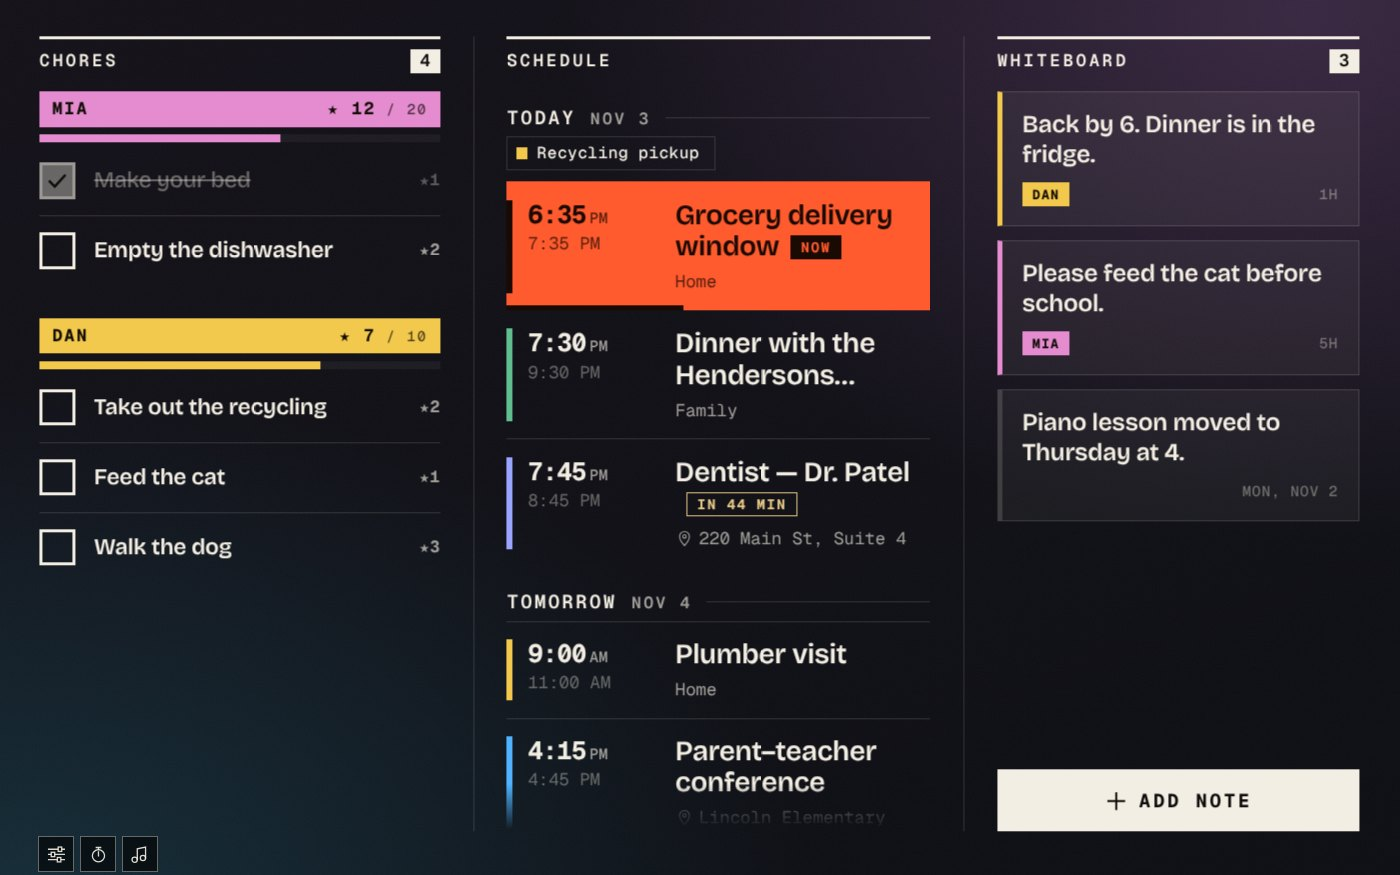
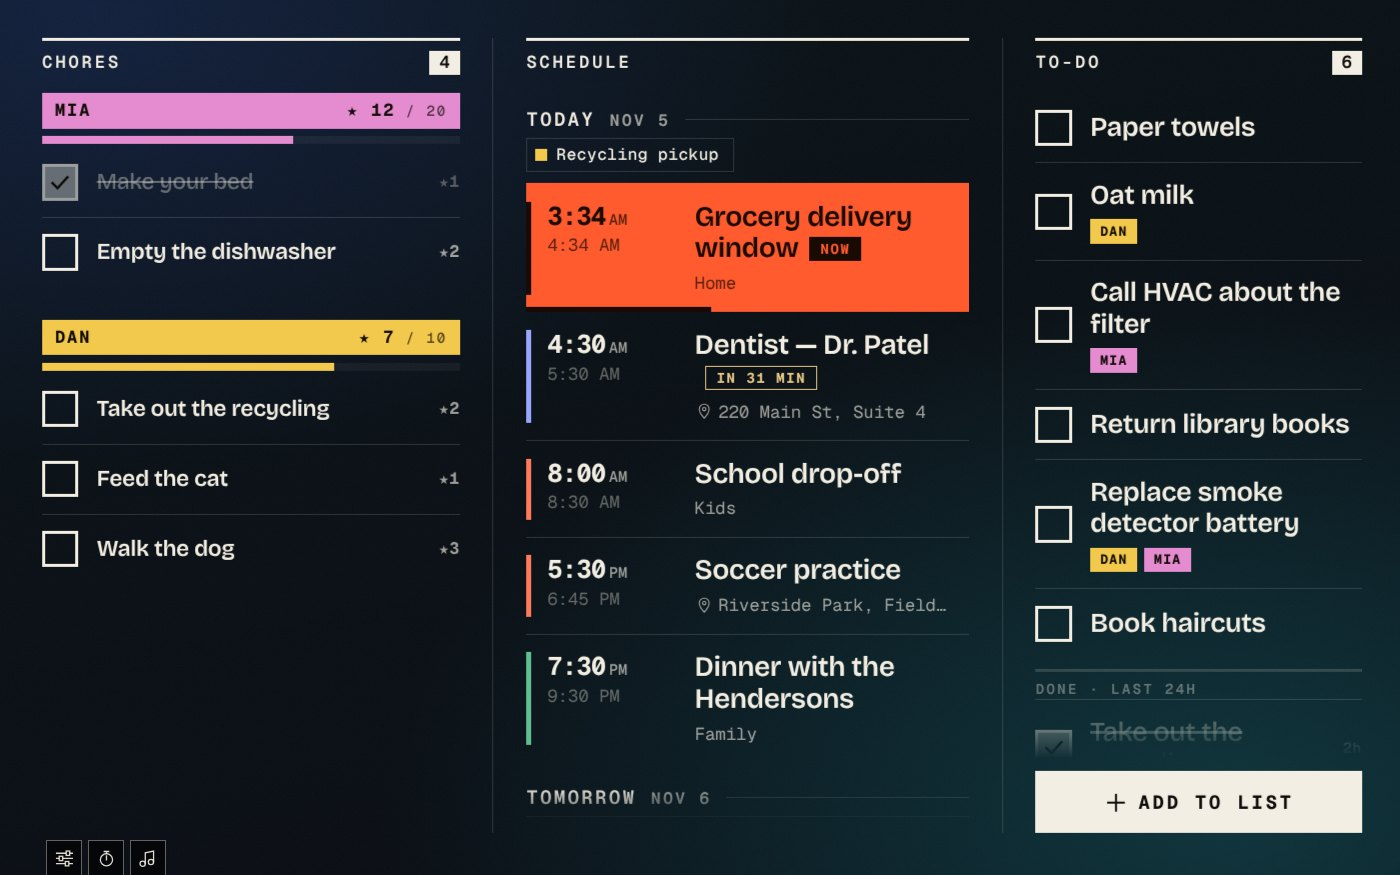
Whiteboard: sticky notes in Patrick Hand, one color per person, text sized so every note fits (huge for one, smaller for many), newest 12 with an earlier-notes list; Big Skreen Mode shows the whole board at once. Site screenshots updated
Claude-Session: https://claude.ai/code/session_011eTQv9VeC2pydGDdcW3LLL

diff --git a/dashboard/app.js b/dashboard/app.js
@@ -1358,6 +1358,7 @@
     body.appendChild(v);
     fitToWidth(v.querySelector('.big'), v.clientWidth * 0.82);   // never wider than the space inside the side margins
     fitRows(v);
+    const wall = v.querySelector('.wall'); if (wall) fitWall(wall);
     if (alwaysTour()) startSubs(v); else clearInterval(tour.subTimer);
     if (name === 'photos' && alwaysTour()) { photo.hold = true; tour.photoLocked = true; clearTimeout(photo.timer); planPhotoSwaps(); }
     tour.timer = setTimeout(() => {
@@ -1586,13 +1587,7 @@
       return listSlide('Shopping', shopState.items, (t) => `<div class="row"><div class="bullet"></div><div class="rn"><span class="ttl">${esc(t.title)}</span></div></div>`, { big: 5, plain: 8 });
     }
     if (name === 'chores') return choresSlide();
-    if (name === 'board' && alwaysTour()) {   // Big Skreen Mode: one note at a time, swiping up through the newest few
-      return stageHtml('Whiteboard', board.notes.slice(0, slideMs() <= 15000 ? 2 : 4).map((n) => `<div class="sv-headline sv-note"><span>${esc(n.text)}${n.who.length ? `<em class="sv-from">\u2014 ${esc(n.who.join(', '))}</em>` : ''}</span></div>`), 'headlines');
-    }
-    if (name === 'board') {
-      const rows = board.notes.slice(0, 5).map((n) => `<div class="row"><div class="rn">${esc(n.text)}${n.who.length ? `<span class="sv-who">${n.who.map(esc).join(' \u00b7 ')}</span>` : ''}</div></div>`).join('');
-      return `<div class="kicker">Whiteboard</div><div class="sv-list sv-news">${rows}</div>`;
-    }
+    if (name === 'board') return `<div class="kicker">Whiteboard</div><div class="wall" data-wall>${wallHtml('div')}</div>`;   // the whole board at once, sized to fill the screen
     if (name === 'news' && alwaysTour()) {   // Big Skreen Mode: one big headline at a time, swiping up through up to three (two on a short slide)
       return stageHtml('In the news', News.current.slice(0, slideMs() <= 15000 ? 2 : 3).map((h) => `<div class="sv-headline"><span>${esc(h.text)}</span></div>`), 'headlines');
     }
@@ -2682,13 +2677,63 @@
     if (m < 24 * 60) return `${Math.floor(m / 60)}h`;
     return fmtDate(new Date(ms), { weekday: 'short', month: 'short', day: 'numeric' });
   }
-  const noteHtml = (n) => `<button type="button" class="note" data-note="${esc(n.id)}" style="--p:${n.who.length ? personColor(n.who[0]) : 'var(--rule)'}"><span class="note-text">${esc(n.text)}</span><span class="note-foot">${chipsHtml(n.who)}<span class="note-when">${esc(noteWhen(n.at))}</span></span></button>`;
+  // The board is a wall of sticky notes in handwriting. Each note's paper takes the writer's colour, the text is sized so
+  // every note fits (one note is huge, a full wall is smaller), and the newest BOARD_MAX are shown, the rest listed under "earlier".
+  const BOARD_MAX = 12;
+  const paperOf = (name) => {
+    if (!name) return '#f1ead7';
+    const n = parseInt(personColor(name).slice(1), 16), mix = (c) => Math.round(c + (255 - c) * 0.5);   // the person's colour, lightened
+    return `rgb(${mix((n >> 16) & 255)}, ${mix((n >> 8) & 255)}, ${mix(n & 255)})`;
+  };
+  const noteTilt = (id) => { let h = 0; for (const ch of String(id)) h = (h * 31 + ch.charCodeAt(0)) >>> 0; return (((h % 5) - 2) * 0.55).toFixed(2) + 'deg'; };
+  function wallHtml(tag = 'button') {
+    const shown = board.notes.slice(0, BOARD_MAX), older = board.notes.length - shown.length;
+    const open = tag === 'button' ? ' type="button"' : '';
+    return shown.map((n) => `<${tag}${open} class="sn" data-note="${esc(n.id)}" style="--paper:${paperOf(n.who[0])}; --rot:${noteTilt(n.id)}"><span class="t">${esc(n.text)}</span><span class="by">${n.who.length ? `<span class="name">${esc(n.who.join(' & '))}</span>` : ''}<span class="ago">${esc(noteWhen(n.at))}</span></span></${tag}>`).join('')
+      + (older > 0 && tag === 'button' ? `<button type="button" class="wall-more" data-older>+${older} earlier</button>` : '')
+      + (older > 0 && tag !== 'button' ? `<div class="wall-more">+${older} earlier</div>` : '');
+  }
+  // Find the layout (columns) and text size that make the writing as large as possible with every note fitting.
+  function fitWall(wall) {
+    const notes = wall && wall.querySelectorAll('.sn'), n = notes ? notes.length : 0, W = wall ? wall.clientWidth : 0, H = wall ? wall.clientHeight : 0;
+    if (!n || !W || !H) return;
+    wall.classList.toggle('has-more', !!wall.querySelector('.wall-more'));   // leaves a strip for the "+N earlier" tag
+    const fits = () => { for (const el of notes) if (el.scrollHeight > el.clientHeight + 1 || el.scrollWidth > el.clientWidth + 1) return false; return true; };
+    let best = { fs: 0, cols: 1 };
+    for (let cols = 1; cols <= Math.min(n, 6); cols++) {
+      const rows = Math.ceil(n / cols), cell = (W / H) * rows / cols;
+      if (n > 1 && (cell < 0.6 || cell > 3)) continue;   // keep each note roughly card-shaped, not a strip or a tall sliver
+      wall.style.gridTemplateColumns = `repeat(${cols}, minmax(0, 1fr))`;
+      wall.style.gridTemplateRows = `repeat(${rows}, minmax(0, 1fr))`;
+      let lo = 10, hi = Math.min(260, Math.floor(H * 0.45));
+      while (hi - lo > 1) { const mid = (lo + hi) >> 1; wall.style.setProperty('--fs', mid + 'px'); if (fits()) lo = mid; else hi = mid; }
+      if (lo > best.fs) best = { fs: lo, cols };
+    }
+    wall.style.gridTemplateColumns = `repeat(${best.cols}, minmax(0, 1fr))`;
+    wall.style.gridTemplateRows = `repeat(${Math.ceil(n / best.cols)}, minmax(0, 1fr))`;
+    wall.style.setProperty('--fs', Math.max(10, best.fs) + 'px');
+  }
+  const refitBoard = () => document.querySelectorAll('.wall').forEach(fitWall);
+  window.addEventListener('resize', () => { clearTimeout(refitBoard.t); refitBoard.t = setTimeout(refitBoard, 150); });
+  if (document.fonts && document.fonts.load) document.fonts.load('40px "Patrick Hand"').then(refitBoard, () => {});
   function drawBoard() {
     const box = $('boardList');
     if (!boardShown() && !tour.on) return;
     $('boardCount').textContent = board.notes.length ? String(board.notes.length) : '';
-    box.innerHTML = board.notes.length ? board.notes.map(noteHtml).join('') : '<div class="board-empty">Nothing here yet. Tap <b>Add note</b> to leave one for the household.</div>';
+    box.innerHTML = board.notes.length ? wallHtml() : '<div class="board-empty">Nothing here yet. Tap <b>Add note</b> to leave one for the household.</div>';
+    fitWall(box);
   }
+  // Notes past the newest BOARD_MAX are still kept; this lists them so they can be opened, edited or deleted.
+  function openOlderNotes() {
+    $('olderList').innerHTML = board.notes.slice(BOARD_MAX).map((n) => `<button type="button" class="older-row" data-note="${esc(n.id)}"><span class="o-t">${esc(n.text)}</span><span class="o-m">${n.who.length ? chipsHtml(n.who) : ''}<span class="o-w">${esc(noteWhen(n.at))}</span></span></button>`).join('') || '<p class="hint">No earlier notes.</p>';
+    $('olderSheet').showModal();
+  }
+  $('olderClose').addEventListener('click', () => $('olderSheet').close());
+  $('olderSheet').addEventListener('click', (e) => {
+    if (e.target === $('olderSheet')) { $('olderSheet').close(); return; }
+    const b = e.target.closest('[data-note]');
+    if (b) { $('olderSheet').close(); openNote(b.dataset.note); }
+  });
 
   const noteSheet = $('noteSheet');
   const noteWho = whoPicker({ pills: $('notePills'), box: $('noteNew'), input: $('noteWhoInput'), addBtn: $('noteWhoAdd'), anyone: 'No name' });
@@ -2707,7 +2752,10 @@
   $('boardAddIcon').innerHTML = Icons.plus || '+';
   $('noteMic').innerHTML = Icons.mic;
   $('boardAdd').addEventListener('click', () => openNote(null));
-  $('boardList').addEventListener('click', (e) => { const b = e.target.closest('[data-note]'); if (b) openNote(b.dataset.note); });
+  $('boardList').addEventListener('click', (e) => {
+    if (e.target.closest('[data-older]')) { openOlderNotes(); return; }
+    const b = e.target.closest('[data-note]'); if (b) openNote(b.dataset.note);
+  });
   $('noteCancel').addEventListener('click', () => noteSheet.close());
   noteSheet.addEventListener('click', (e) => { if (e.target === noteSheet) noteSheet.close(); });
   $('noteForm').addEventListener('submit', (e) => {

diff --git a/dashboard/styles.css b/dashboard/styles.css
@@ -35,6 +35,19 @@
   font-weight: 100 900; font-display: swap;
 }
 
+@font-face {
+  font-family: "Patrick Hand";
+  src: url("fonts/patrickhand-latin.woff2") format("woff2");
+  unicode-range: U+0000-00FF, U+0131, U+0152-0153, U+02BB-02BC, U+02C6, U+02DA, U+02DC, U+0304, U+0308, U+0329, U+2000-206F, U+20AC, U+2122, U+2191, U+2193, U+2212, U+2215, U+FEFF, U+FFFD;
+  font-display: swap;
+}
+@font-face {
+  font-family: "Patrick Hand";
+  src: url("fonts/patrickhand-latin-ext.woff2") format("woff2");
+  unicode-range: U+0100-02BA, U+02BD-02C5, U+02C7-02CC, U+02CE-02D7, U+02DD-02FF, U+0304, U+0308, U+0329, U+1D00-1DBF, U+1E00-1E9F, U+1EF2-1EFF, U+2020, U+20A0-20AB, U+20AD-20C4, U+2113, U+2C60-2C7F, U+A720-A7FF;
+  font-display: swap;
+}
+
 :root {
   --bg: #0e0d0b;
   --ink: #f3eee3;
@@ -867,17 +880,26 @@ body.native p.native-only { display: block; }
 #shopList .task { transition: opacity .3s ease, transform .3s ease; }
 #shopList .task.leaving { opacity: 0; transform: translateX(14px); }
 
-/* ─── Whiteboard (Skreen+) ─────────────────────────────────────────────── */
-.board-list { display: grid; grid-template-columns: repeat(auto-fill, minmax(19rem, 1fr)); align-content: start; gap: 0.8rem; padding-bottom: 2rem; }
-.note { display: flex; flex-direction: column; gap: 0.7rem; width: 100%; text-align: left; color: inherit; font: inherit; padding: 1rem 1.1rem; border: 1px solid var(--rule); border-left: 5px solid var(--p, var(--rule)); background: var(--wash); cursor: pointer; }
-.note:active { background: rgba(243, 238, 227, 0.1); }
-.note-text { font-size: 1.35rem; font-weight: 600; line-height: 1.2; letter-spacing: -0.01em; overflow-wrap: anywhere; white-space: pre-line; }
-.note-foot { display: flex; align-items: center; gap: 0.6rem; min-height: 1.2rem; }
-.note-when { margin-left: auto; font: 500 0.8rem/1 var(--mono); color: var(--faint); letter-spacing: 0.06em; text-transform: uppercase; }
-.board-empty { grid-column: 1 / -1; padding: 2rem 0; color: var(--muted); font-size: 1.2rem; line-height: 1.3; }
+/* ─── Whiteboard (Skreen+): a wall of sticky notes in handwriting ───────── */
+.wall { flex: 1; min-height: 0; position: relative; display: grid; gap: 1.6%; --fs: 40px; padding: 0.4rem 0.3rem 0.6rem; font-family: "Patrick Hand", "Segoe Print", "Comic Sans MS", cursive; }
+.sn { position: relative; min-width: 0; min-height: 0; overflow: hidden; display: flex; flex-direction: column; justify-content: space-between; gap: 0.3em; padding: 0.55em 0.65em; margin: 0; border: 0; border-radius: 2px; background: var(--paper); color: #26210f; font: inherit; font-size: var(--fs); line-height: 1.08; text-align: left; box-shadow: 0 0.25em 0.6em rgba(0, 0, 0, 0.45); transform: rotate(var(--rot)); }
+button.sn { cursor: pointer; }
+.sn .t { overflow-wrap: normal; white-space: pre-line; }
+.sn .by { display: flex; align-items: center; gap: 0.5em; font-size: 0.52em; }
+.sn .by .name { padding: 0.08em 0.5em 0.12em; border-radius: 999px; background: rgba(0, 0, 0, 0.14); }
+.sn .by .ago { opacity: 0.55; }
+.wall-more { position: absolute; right: 0.3rem; bottom: 0.2rem; z-index: 2; padding: 0.5em 0.8em; border: 0; background: var(--ink); color: var(--bg); font: 700 0.85rem/1 var(--mono); letter-spacing: 0.1em; text-transform: uppercase; }
+.board-empty { grid-column: 1 / -1; align-self: center; padding: 2rem 0; color: var(--muted); font: 1.4rem/1.3 var(--display); }
+.sv-board { padding: 6vh 4vw 11vh; gap: 2vh; }
+.sv-board .wall { width: 100%; padding: 0; }
+.sv-board .wall-more { right: 0; bottom: 0; font-size: max(1rem, 2.2vh); }
+.older-list { display: flex; flex-direction: column; gap: 0.5rem; max-height: 55vh; overflow-y: auto; margin-bottom: 0.4rem; }
+.older-row { display: flex; align-items: baseline; justify-content: space-between; gap: 1rem; width: 100%; padding: 0.8rem 0.9rem; border: 1px solid var(--rule); background: var(--wash); color: var(--ink); text-align: left; font: inherit; }
+.older-row .o-t { font: 1.2rem/1.2 "Patrick Hand", "Comic Sans MS", cursive; min-width: 0; overflow-wrap: anywhere; }
+.older-row .o-m { display: flex; align-items: center; gap: 0.6rem; flex: none; }
+.older-row .o-w { font: 500 0.8rem/1 var(--mono); color: var(--faint); text-transform: uppercase; }
 .sheet textarea { width: 100%; padding: 1.1rem 1.2rem; border: 1px solid var(--rule); background: #0c0b0a; font: inherit; font-size: 1.4rem; line-height: 1.25; outline: none; resize: none; color: inherit; }
 .sheet textarea:focus { border-color: var(--accent); }
-.sv-note .sv-from { display: block; margin-top: 0.5em; font-size: 0.38em; font-style: normal; font-weight: 500; letter-spacing: 0; color: var(--muted); }
 #noteSheet .sheet-actions .btn:first-child { margin-right: 0; }
 #noteSheet #noteCancel { margin-left: auto; }
 
@@ -965,3 +987,5 @@ body.native p.native-only { display: block; }
 .settings-nav { min-height: 0; overflow-y: auto; scrollbar-width: none; gap: 0.15rem; }
 .settings-nav::-webkit-scrollbar { display: none; }
 .settings-nav button { padding: 0.7rem 0.9rem; font-size: 0.88rem; }
+.wall.has-more { padding-bottom: 2.8rem; }
+.sv-board .wall.has-more { padding-bottom: 5vh; }

diff --git a/site/index.html b/site/index.html
@@ -131,7 +131,7 @@
         <li><b>A column for every family member</b><span>Give each person their own calendar and to-do list, side by side on one screen, each in their own color.</span></li>
         <li><b>As many schedules and lists as you like</b><span>Add extra schedules and to-do lists, each with a name you choose: Kids, Work, Chores.</span></li>
         <li><b>Chores and stars</b><span>Chores that repeat on the days you choose, and earn stars toward a reward each person picks.</span></li>
-        <li><b>Whiteboard</b><span>Leave notes for the household and sign them with a tap. They stay on the tablet, nowhere else.</span></li>
+        <li><b>Whiteboard</b><span>Sticky notes in handwriting for the household, signed with a tap and sized to fill the screen. They stay on the tablet, nowhere else.</span></li>
         <li><b>Meal planner</b><span>The week&rsquo;s dinners at a glance, and breakfast and lunch too if you like. Pick from your own list of ideas.</span></li>
         <li><b>Shopping list</b><span>A real list on the wall that everyone can add to from their phones.</span></li>
         <li><b>News headlines</b><span>Top stories from around the world, at a glance.</span></li>
@@ -153,9 +153,10 @@
       <p class="eyebrow">Skreen+ &middot; For the whole household</p>
       <h2>A family wall, not just a calendar.</h2>
       <p class="sub">Everyone gets their own place on the screen. Their calendar, their to-dos, their chores, and a spot to leave each other notes. You decide what goes where, and Skreen never asks for a subscription.</p>
-      <div class="shots three">
+      <div class="shots two">
         <figure><img src="img/s/people.jpg" width="1400" height="875" loading="lazy" alt="A family schedule with three color-coded columns, one each for Dan, Mia and Mom, each showing that person&rsquo;s events."><figcaption>A column for everyone</figcaption></figure>
-        <figure><img src="img/s/family.jpg" width="1400" height="875" loading="lazy" alt="A chore chart with stars and progress toward a reward, next to the schedule and a whiteboard of household notes."><figcaption>Chores, schedule and whiteboard</figcaption></figure>
+        <figure><img src="img/s/family.jpg" width="1400" height="875" loading="lazy" alt="A chore chart with stars and progress toward a reward, next to the schedule and the to-do list."><figcaption>Chores with stars, next to the day</figcaption></figure>
+        <figure><img src="img/s/whiteboard.jpg" width="1400" height="875" loading="lazy" alt="A whiteboard of colored sticky notes in handwriting, each signed by a family member and sized to fill the screen."><figcaption>A whiteboard of sticky notes</figcaption></figure>
         <figure><img src="img/s/meals.jpg" width="1400" height="875" loading="lazy" alt="The week&rsquo;s breakfast, lunch and dinner next to a shopping list."><figcaption>Every meal, planned</figcaption></figure>
       </div>
     </div>

diff --git a/dashboard/index.html b/dashboard/index.html
@@ -82,7 +82,7 @@
 
     <section class="w col board" data-w="board">
       <div class="col-head"><span>Whiteboard</span><span class="count" id="boardCount"></span></div>
-      <div class="scroll board-list" id="boardList"></div>
+      <div class="wall" id="boardList"></div>
       <button class="add-btn" id="boardAdd" type="button"><span id="boardAddIcon"></span>Add note</button>
     </section>
 
@@ -286,6 +286,14 @@
         <button type="submit" class="btn primary" id="addSubmit">Add</button>
       </div>
     </form>
+  </dialog>
+
+  <!-- Earlier whiteboard notes -->
+  <dialog class="sheet" id="olderSheet">
+    <div class="brand-row sm" data-brand></div>
+    <h3>Earlier notes</h3>
+    <div class="older-list" id="olderList"></div>
+    <div class="sheet-actions"><button type="button" class="btn primary" id="olderClose">Close</button></div>
   </dialog>
 
   <!-- Whiteboard note sheet -->
